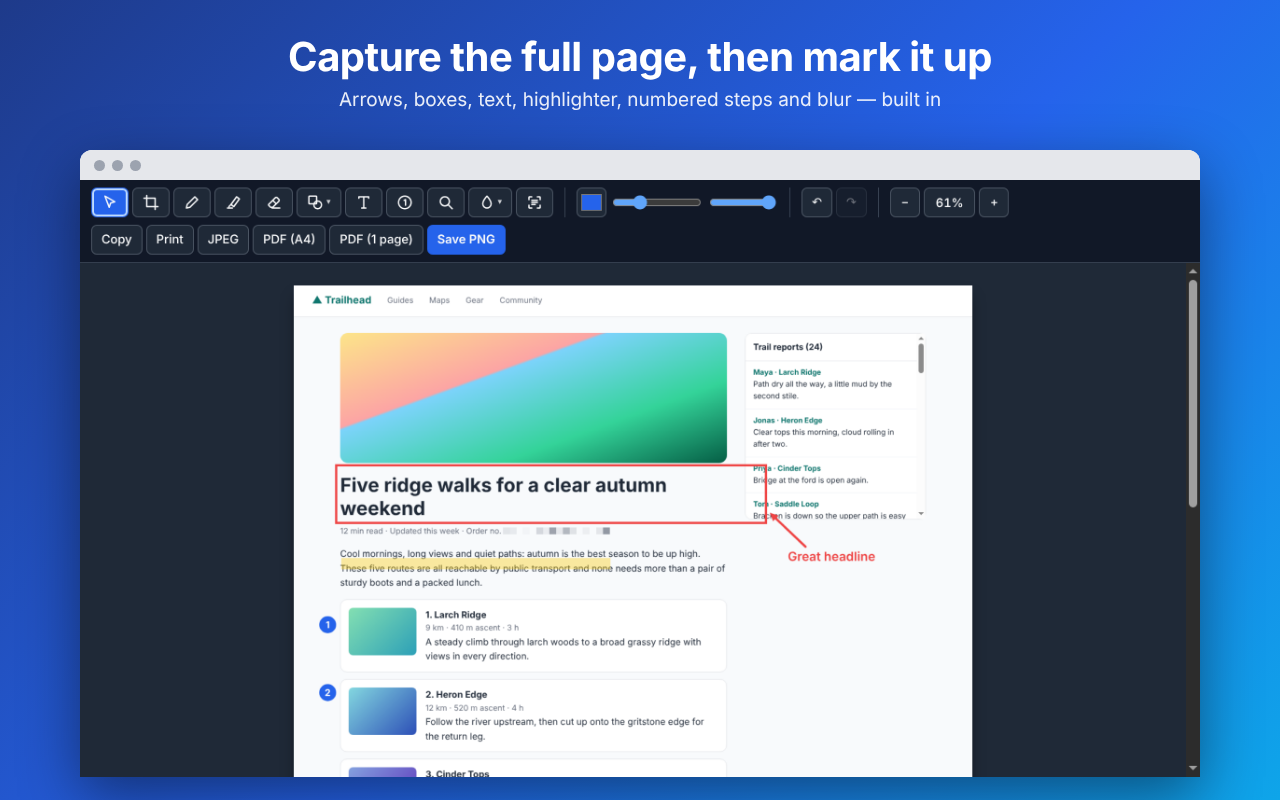
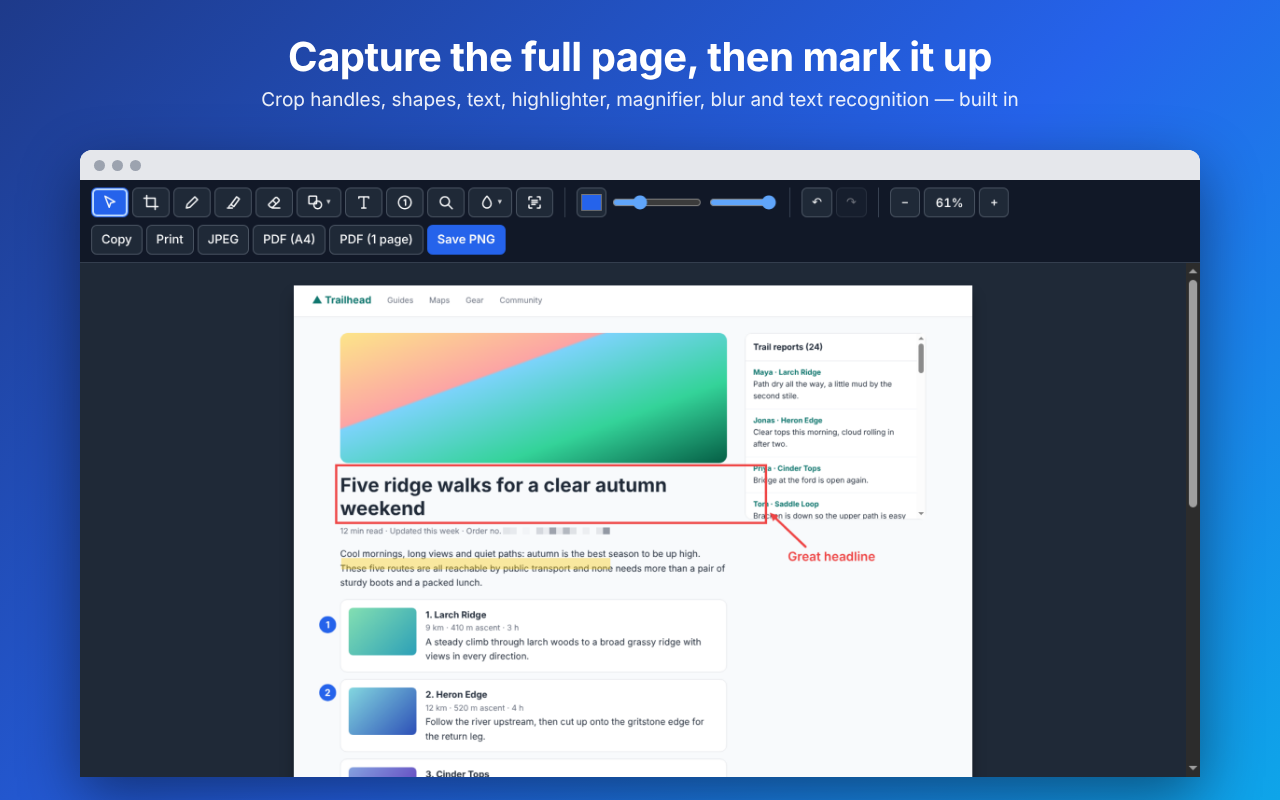
Replace scrollable-area mode with an inspector-style element picker (v1.3.0)
Hover highlights any element with its tag and size; click or Enter captures
it. Arrow keys walk to the parent or child. Scrolling elements are captured
in full; other elements are stitched by scrolling the page past them.

Claude-Session: https://claude.ai/code/session_01MHRCSK2xbGY3NpYax7aKNw

Changed region(s): [[0.2188, 0.0938, 0.7188, 0.1562], [0.75, 0.0938, 0.7812, 0.1562]]

diff --git a/content.js b/content.js
@@ -95,45 +95,72 @@
     });
   }
 
+  // Inspector-style picker: highlights whatever is under the pointer; click captures that element.
   function pickElement() {
     const box = document.createElement('div');
-    box.style.cssText = `all:initial;position:fixed;display:none;z-index:${Z};border:2px solid #2563eb;background:rgba(37,99,235,.15);pointer-events:none;box-sizing:border-box`;
-    const tip = hint('Click a scrollable area, or press Enter for the largest one · Esc to cancel');
-    document.documentElement.appendChild(box);
-    let cur = null;
-    const move = e => {
-      cur = scrollParent(document.elementFromPoint(e.clientX, e.clientY));
-      if (!cur) { box.style.display = 'none'; tip.textContent = 'No scrollable area here — use Full page instead · Esc to cancel'; return; }
-      tip.textContent = 'Click to capture this scrollable area · Esc to cancel';
+    box.style.cssText = `all:initial;position:fixed;display:none;z-index:${Z};border:2px solid #2563eb;background:rgba(37,99,235,.18);pointer-events:none;box-sizing:border-box`;
+    const tag = document.createElement('div');
+    tag.style.cssText = `all:initial;position:fixed;display:none;z-index:${Z};background:#1e3a8a;color:#fff;font:12px/1.4 ui-monospace,Menlo,Consolas,monospace;padding:2px 6px;border-radius:4px;pointer-events:none;white-space:nowrap;max-width:90vw;overflow:hidden;text-overflow:ellipsis`;
+    const tip = hint('Click the element to capture · ↑ parent · ↓ child · Enter capture · Esc cancel');
+    document.documentElement.append(box, tag);
+    let cur = null, hovered = null;
+    const trail = [];                                  // elements we climbed up from, for ↓
+    const describe = el => {
+      let d = el.tagName.toLowerCase();
+      if (el.id) d += '#' + el.id;
+      const cls = typeof el.className === 'string' ? el.className.trim().split(/\s+/).filter(Boolean).slice(0, 2) : [];
+      if (cls.length) d += '.' + cls.join('.');
+      const r = el.getBoundingClientRect();
+      const h = scrollable(el) ? el.scrollHeight : r.height;
+      return `${d}  ${Math.round(r.width)} × ${Math.round(h)}${scrollable(el) ? '  · scrolls' : ''}`;
+    };
+    const show = () => {
+      if (!cur) { box.style.display = tag.style.display = 'none'; return; }
       const b = cur.getBoundingClientRect();
       Object.assign(box.style, { display: 'block', left: b.left + 'px', top: b.top + 'px', width: b.width + 'px', height: b.height + 'px' });
+      tag.textContent = describe(cur);
+      const ty = b.top >= 24 ? b.top - 22 : Math.min(innerHeight - 22, Math.max(0, b.top) + 4);
+      Object.assign(tag.style, { display: 'block', left: Math.max(0, Math.min(b.left, innerWidth - 200)) + 'px', top: ty + 'px' });
+    };
+    const move = e => {
+      const el = document.elementFromPoint(e.clientX, e.clientY);
+      if (!el || el === hovered) return;               // keep a parent chosen with ↑ until the pointer reaches another element
+      hovered = cur = el; trail.length = 0; show();
     };
     const stop = e => { e.preventDefault(); e.stopPropagation(); e.stopImmediatePropagation(); };
+    const EVENTS = ['click', 'mousedown', 'mouseup', 'pointerdown', 'pointerup'];
     const done = () => {
-      box.remove(); tip.remove();
-      removeEventListener('mousemove', move, true); removeEventListener('keydown', key, true);
-      for (const t of ['click', 'mousedown', 'mouseup', 'pointerdown', 'pointerup']) removeEventListener(t, click, true);
+      box.remove(); tag.remove(); tip.remove();
+      removeEventListener('mousemove', move, true); removeEventListener('keydown', key, true); removeEventListener('scroll', show, true);
+      for (const t of EVENTS) removeEventListener(t, click, true);
     };
-    const key = async e => {
-      if (e.key === 'Escape') { stop(e); done(); }
-      else if (e.key === 'Enter') {                 // keyboard alternative to pointing
-        stop(e); done();
-        if (!handlers.autoElement()) return;
-        await settle(60);
-        chrome.runtime.sendMessage({ t: 'picked', mode: 'element' });
-      }
-    };
-    const click = async e => {
-      stop(e);
-      if (e.type !== 'click') return;
+    const capture = async () => {
       done();
       if (!cur) return;
       S.el = cur;
       await settle(60);
       chrome.runtime.sendMessage({ t: 'picked', mode: 'element' });
     };
-    addEventListener('mousemove', move, true); addEventListener('keydown', key, true);
-    for (const t of ['click', 'mousedown', 'mouseup', 'pointerdown', 'pointerup']) addEventListener(t, click, true);
+    const key = e => {
+      if (e.key === 'Escape') { stop(e); done(); }
+      else if (e.key === 'Enter') { stop(e); capture(); }
+      else if (e.key === 'ArrowUp' && cur?.parentElement) { stop(e); trail.push(cur); cur = cur.parentElement; show(); }
+      else if (e.key === 'ArrowDown' && cur) { stop(e); cur = trail.pop() || cur.firstElementChild || cur; show(); }
+    };
+    const click = e => { stop(e); if (e.type === 'click') capture(); };
+    addEventListener('mousemove', move, true); addEventListener('keydown', key, true); addEventListener('scroll', show, true);
+    for (const t of EVENTS) addEventListener(t, click, true);
+    cur = document.elementFromPoint(innerWidth / 2, innerHeight / 2);   // starting point for keyboard users
+    show();
+  }
+
+  // --- capturing a plain (non-scrolling) element by scrolling the page past it ---
+  const fixedAncestor = el => { for (; el && el !== document.documentElement; el = el.parentElement) if (getComputedStyle(el).position === 'fixed') return true; return false; };
+  function boxInfo() {
+    const r = S.el.getBoundingClientRect();
+    const x0 = Math.max(0, r.left), y0 = Math.max(0, r.top), x1 = Math.min(innerWidth, r.right), y1 = Math.min(innerHeight, r.bottom);
+    return { sx: x0, sy: y0, sw: Math.max(1, x1 - x0), sh: Math.max(1, y1 - y0), offX: x0 - r.left, offY: y0 - r.top,
+      totalW: Math.max(1, r.width), totalH: Math.max(1, r.height), vw: innerWidth, vh: innerHeight, fixed: fixedAncestor(S.el) };
   }
 
   const handlers = {
@@ -173,6 +200,24 @@
       await settle(80);
       return elInfo();
     },
+    elKind() { return S.el && scrollable(S.el) ? 'scroll' : 'box'; },
+    async boxPrepare() {
+      if (!S.el) throw new Error('Nothing selected');
+      S.orig = { x: scrollX, y: scrollY };
+      addStyle();
+      const fixed = fixedAncestor(S.el);
+      // Floating headers/banners would cover the element while the page scrolls past: hide the unrelated ones.
+      for (const el of document.body.querySelectorAll('*')) {
+        if (el.contains(S.el) || S.el.contains(el)) continue;
+        const p = getComputedStyle(el).position;
+        if (p === 'fixed' && !fixed) el.setAttribute('data-cc-fixed', '');
+        else if (p === 'sticky') el.setAttribute('data-cc-sticky', '');
+      }
+      if (!fixed) window.scrollBy(0, S.el.getBoundingClientRect().top);
+      await settle(200);
+      return boxInfo();
+    },
+    async boxScroll({ dy }) { window.scrollBy(0, dy); await settle(); return boxInfo(); },
     async elScroll({ y }) { S.el.scrollTop = y; await settle(); return elInfo(); },
     async elTail() { S.el.scrollIntoView({ block: 'end' }); await settle(); return elInfo(); },
     restore() { restore(); return true; },

diff --git a/background.js b/background.js
@@ -71,7 +71,34 @@ async function runFull(tab) {
   }
 }
 
+// A picked element that does not scroll itself: scroll the page past it and stitch the slices.
+async function runBox(tab) {
+  try {
+    let e = await send(tab.id, { t: 'boxPrepare' });
+    const frames = [];
+    let right = 0, bottom = 0;
+    const add = async e => {
+      frames.push({ blob: await shot(tab), vw: e.vw, sx: e.sx, sy: e.sy, sw: e.sw, sh: e.sh, dx: e.offX, dy: e.offY });
+      right = Math.max(right, e.offX + e.sw); bottom = Math.max(bottom, e.offY + e.sh);
+    };
+    await add(e);
+    while (!e.fixed && e.offY + e.sh < e.totalH - 1 && frames.length < MAX_FRAMES) {
+      const prev = e.offY;
+      e = await send(tab.id, { t: 'boxScroll', dy: e.sh });
+      if (e.offY <= prev + 0.5) break;                 // page cannot scroll any further
+      badge(tab.id, Math.min(99, Math.round(((e.offY + e.sh) / e.totalH) * 100)) + '%');
+      await add(e);
+    }
+    await send(tab.id, { t: 'restore' });
+    await finish(tab, frames, Math.min(e.totalW, right), Math.min(e.totalH, bottom));
+  } catch (err) {
+    await send(tab.id, { t: 'restore' }).catch(() => {});
+    throw err;
+  }
+}
+
 async function runElement(tab, prepared = false) {
+  if (!prepared && await send(tab.id, { t: 'elKind' }) === 'box') return runBox(tab);
   try {
     let e = await send(tab.id, { t: 'elPrepare', prepared });
     const frames = [];

diff --git a/popup.html b/popup.html
@@ -8,8 +8,8 @@
       <span class="t"><b>Full page</b><span>Scrolls and stitches the whole page</span></span><kbd>Alt+Shift+F</kbd>
     </button>
     <button data-mode="element">
-      <svg viewBox="0 0 24 24" aria-hidden="true"><rect x="4" y="4" width="16" height="16" rx="2"/><path d="M16 8v8M8 9h4M8 13h4"/></svg>
-      <span class="t"><b>Scrollable area</b><span>A chat, table or panel that scrolls</span></span><kbd>Alt+Shift+E</kbd>
+      <svg viewBox="0 0 24 24" aria-hidden="true"><path d="M4 9V5a1 1 0 0 1 1-1h4M15 4h4a1 1 0 0 1 1 1v4M9 20H5a1 1 0 0 1-1-1v-4"/><path d="M12 12l8 3-3.500 1.500L15 20z"/></svg>
+      <span class="t"><b>Pick element</b><span>Hover to highlight any part, click to capture</span></span><kbd>Alt+Shift+E</kbd>
     </button>
     <button data-mode="area">
       <svg viewBox="0 0 24 24" aria-hidden="true"><rect x="4" y="6" width="16" height="12" rx="1" stroke-dasharray="3 3"/></svg>

diff --git a/FIREFOX_LISTING.md b/FIREFOX_LISTING.md
@@ -17,7 +17,7 @@ Clean Capture takes screenshots and nothing else.
 <b>Four ways to capture</b>
 <ul>
 <li>Full page — scrolls and stitches the whole page</li>
-<li>Scrollable area — click a chat, table or panel that scrolls on its own</li>
+<li>Pick element — hover to highlight any part of the page (a card, table, chat or scrolling panel) and click to capture all of it</li>
 <li>Selected area — drag a rectangle</li>
 <li>Visible area — what you see right now</li>
 </ul>
@@ -29,7 +29,7 @@ Crop with drag handles, shapes (rectangle, ellipse, line, arrow), pen, highlight
 PNG, JPEG, PDF (A4 pages or one long page), copy to clipboard, print.
 
 <b>Shortcuts</b>
-Alt+Shift+F (full page), E (scrollable area), A (selected area), V (visible area).
+Alt+Shift+F (full page), E (pick element), A (selected area), V (visible area).
 
 <b>Screen recording</b>
 Record a tab, a window or the whole screen as WebM or MP4, with optional audio and microphone, pause and resume.

diff --git a/README.md b/README.md
@@ -19,7 +19,7 @@ Exports PNG, JPEG and PDF. Also records the screen (tab, window or whole screen)
 `xcrun safari-web-extension-converter dist/chrome --app-name "Clean Capture"`
 
 ## Use
-Click the toolbar icon and pick a mode, or use Alt+Shift+F (full page), E (scrollable area), A (selected area), V (visible area).
+Click the toolbar icon and pick a mode, or use Alt+Shift+F (full page), E (pick element), A (selected area), V (visible area).
 
 ## Build store packages
 `./build.sh` writes `dist/clean-capture-chrome.zip` and `dist/clean-capture-firefox.zip`. Listing text is in [STORE_LISTING.md](STORE_LISTING.md) (Chrome) and [FIREFOX_LISTING.md](FIREFOX_LISTING.md) (Firefox).

diff --git a/STORE_LISTING.md b/STORE_LISTING.md
@@ -9,7 +9,7 @@ Full-page and scrollable-area screenshots with an editor, plus screen recording.
 Clean Capture takes screenshots and nothing else.
 
 • Full page — scrolls and stitches the whole page
-• Scrollable area — click a chat, table or panel that scrolls on its own
+• Pick element — hover to highlight any part of the page (a card, table, chat or scrolling panel) and click to capture all of it
 • Selected area — drag a rectangle
 • Visible area — what you see right now
 
